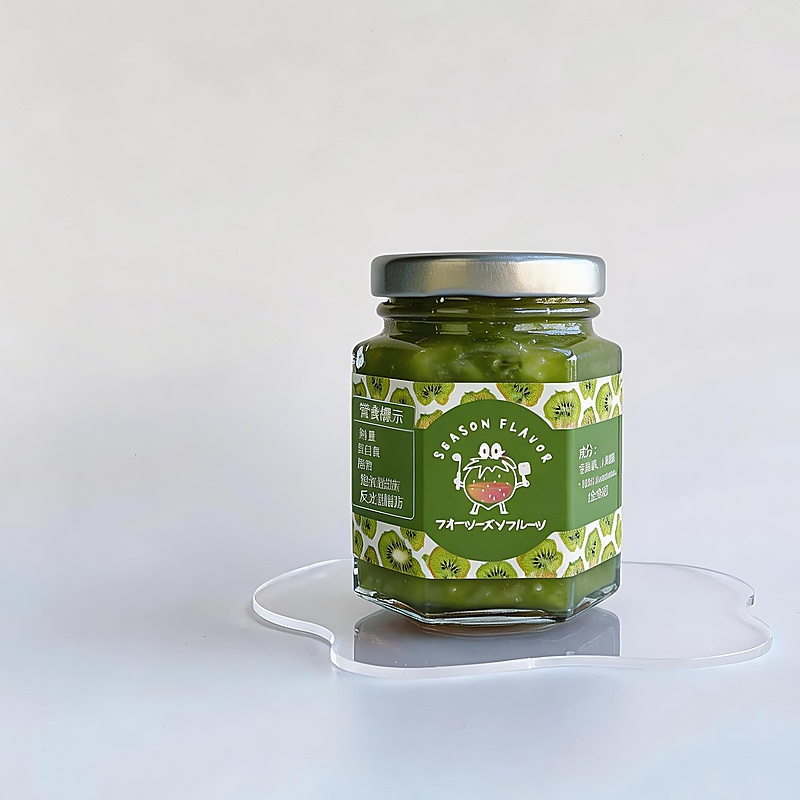
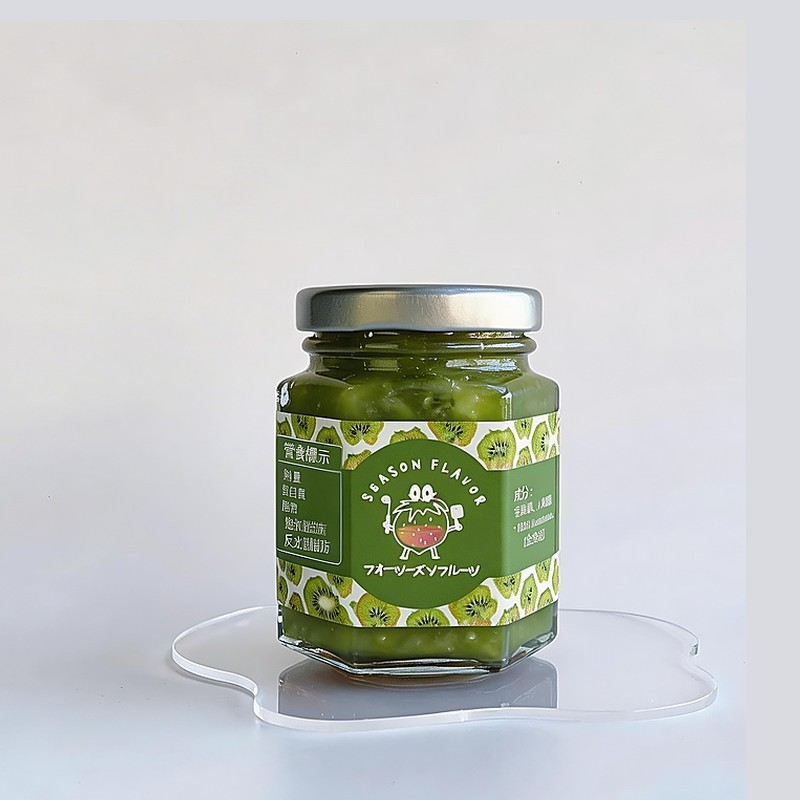
Fix product image alignment, shop pricing, restore FAQ, enhance SEO/GEO
Images:
- Normalize mixed-berry / kiwi / peach jar photos to match strawberry
  (uniform jar size, horizontal centering, shared baseline) on 800x800

Shop page:
- Shrink product images via 3-column grid (max-width 960px)
- Add missing card CSS (.shop-card-foot .price, .btn-sm, .page-head,
  .shop-card-tagline, .shop-card-body h3) so price renders correctly
- Add 2-column tablet breakpoint

Homepage:
- Restore FAQ section (6 Q&A) with original .faq styling

SEO / GEO:
- FAQPage JSON-LD matching the FAQ section
- Richer Organization / WebSite (SearchAction) / FoodEstablishment schema
  with @id graph, areaServed, payment/currency, geo meta tags
- keywords / author / robots / twitter / og:image:alt meta
- sitemap.xml with lastmod, changefreq, priority and product image entries

Claude-Session: https://claude.ai/code/session_01TEDooG5yoqRT5NXHpVNHy8

Changed region(s): [[0.0938, 0.3125, 0.7812, 0.9688]]

diff --git a/public/index.html b/public/index.html
@@ -14,40 +14,85 @@
   <meta property="og:image" content="https://www.seasonflavor.com/images/strawberry.jpg" />
   <meta property="og:locale" content="zh_TW" />
   <meta name="twitter:card" content="summary_large_image" />
+  <meta name="keywords" content="肆菓, Season Flavor, 手工果醬, 季節果醬, 草莓果醬, 綜合野莓果醬, 無添加果醬, 台北手工果醬, 當季水果果醬, 線上訂購果醬" />
+  <meta name="author" content="肆菓 Season Flavor" />
+  <meta name="robots" content="index, follow, max-image-preview:large" />
+  <meta property="og:image:alt" content="肆菓 Season Flavor 手工草莓果醬" />
+  <meta name="twitter:title" content="肆菓 Season Flavor｜把四季，做成剛剛好的甜" />
+  <meta name="twitter:description" content="用時令水果的真實風味製作手工果醬，線上訂購宅配到府。" />
+  <meta name="twitter:image" content="https://www.seasonflavor.com/images/strawberry.jpg" />
+  <meta name="geo.region" content="TW-TPE" />
+  <meta name="geo.placename" content="台北市" />
   <script type="application/ld+json">
   {
     "@context": "https://schema.org",
     "@type": "Organization",
+    "@id": "https://www.seasonflavor.com/#organization",
     "name": "肆菓 Season Flavor",
+    "alternateName": "肆菓",
     "url": "https://www.seasonflavor.com",
     "logo": "https://www.seasonflavor.com/images/strawberry.jpg",
+    "image": "https://www.seasonflavor.com/images/strawberry.jpg",
     "sameAs": ["https://www.instagram.com/seasonflavor_/"],
-    "description": "用時令水果的真實風味製作手工果醬與甜點"
+    "description": "肆菓 Season Flavor 用當令水果的真實風味，手工製作無添加防腐劑的季節果醬。",
+    "slogan": "把四季，做成剛剛好的甜"
   }
   </script>
   <script type="application/ld+json">
   {
     "@context": "https://schema.org",
     "@type": "WebSite",
+    "@id": "https://www.seasonflavor.com/#website",
     "name": "肆菓 Season Flavor",
-    "url": "https://www.seasonflavor.com"
+    "url": "https://www.seasonflavor.com",
+    "inLanguage": "zh-Hant",
+    "publisher": { "@id": "https://www.seasonflavor.com/#organization" },
+    "potentialAction": {
+      "@type": "SearchAction",
+      "target": "https://www.seasonflavor.com/shop?q={search_term_string}",
+      "query-input": "required name=search_term_string"
+    }
   }
   </script>
   <script type="application/ld+json">
   {
     "@context": "https://schema.org",
     "@type": "FoodEstablishment",
+    "@id": "https://www.seasonflavor.com/#business",
     "name": "肆菓 Season Flavor",
     "url": "https://www.seasonflavor.com",
+    "image": "https://www.seasonflavor.com/images/strawberry.jpg",
     "description": "手工果醬與季節甜點品牌，用時令水果的真實風味，讓每一口都是剛好的停頓。",
     "address": {
       "@type": "PostalAddress",
       "addressLocality": "台北市",
+      "addressRegion": "台北市",
       "addressCountry": "TW"
     },
-    "priceRange": "$",
-    "servesCuisine": "甜點、手工果醬",
+    "areaServed": { "@type": "Country", "name": "台灣" },
+    "priceRange": "$$",
+    "servesCuisine": ["手工果醬", "季節甜點"],
+    "currenciesAccepted": "TWD",
+    "paymentAccepted": "銀行轉帳, 貨到付款",
     "sameAs": ["https://www.instagram.com/seasonflavor_/"]
+  }
+  </script>
+  <script type="application/ld+json">
+  {
+    "@context": "https://schema.org",
+    "@type": "FAQPage",
+    "mainEntity": [
+      { "@type": "Question", "name": "果醬的保存期限多久？要怎麼保存？",
+        "acceptedAnswer": { "@type": "Answer", "text": "因為堅持不添加防腐劑，未開封請冷藏保存，賞味期約 1 個月；開封後請冷藏並於 2 週內食用完畢，每次取用請使用乾燥潔淨的湯匙，避免沾染水氣。" } },
+      { "@type": "Question", "name": "怎麼下單？有哪些付款方式？",
+        "acceptedAnswer": { "@type": "Answer", "text": "直接在線上訂購頁面選購加入購物車即可結帳。目前提供銀行轉帳（ATM／網銀）與貨到付款，皆為先付款後出貨。" } },
+      { "@type": "Question", "name": "運費怎麼算？多少免運？",
+        "acceptedAnswer": { "@type": "Answer", "text": "宅配運費 NT$120，單筆訂單滿 NT$1,500 免運。台北地區也可選擇面交自取，自取免運費。" } },
+      { "@type": "Question", "name": "大概多久會出貨？",
+        "acceptedAnswer": { "@type": "Answer", "text": "確認收到款項後，我們會在 2–3 個工作天內手工製作並出貨。因為都是小批量現做，遇到旺季可能稍有延後。" } },
+      { "@type": "Question", "name": "「即將推出」的口味什麼時候會有？",
+        "acceptedAnswer": { "@type": "Answer", "text": "奇異果、水蜜桃等口味會跟著當令水果的產季推出，數量有限。想收到上架通知，歡迎追蹤 IG @seasonflavor_。" } }
+    ]
   }
   </script>
   <link rel="preconnect" href="https://fonts.googleapis.com" />
@@ -272,6 +317,55 @@
           而不只是為了記錄它。
         </p>
         <a href="#contact" class="btn btn-light">和我們說說話</a>
+      </div>
+    </div>
+  </section>
+
+  <!-- FAQ -->
+  <section class="faq section" id="faq">
+    <div class="container">
+      <div class="faq-header">
+        <p class="section-label">FAQ</p>
+        <h2 class="section-title">常見問題</h2>
+        <p class="body-text center">關於訂購、配送與保存，這裡有你想知道的</p>
+      </div>
+      <div class="faq-list">
+        <details class="faq-item">
+          <summary class="faq-question">果醬的保存期限多久？要怎麼保存？</summary>
+          <div class="faq-answer">
+            <p>因為堅持<strong>不添加防腐劑</strong>，未開封請冷藏保存，賞味期約 1 個月；開封後請冷藏並於 2 週內食用完畢，每次取用請使用乾燥潔淨的湯匙，避免沾染水氣。</p>
+          </div>
+        </details>
+        <details class="faq-item">
+          <summary class="faq-question">怎麼下單？有哪些付款方式？</summary>
+          <div class="faq-answer">
+            <p>直接在<a href="/shop">線上訂購</a>頁面選購加入購物車即可結帳。目前提供<strong>銀行轉帳（ATM／網銀）</strong>與<strong>貨到付款</strong>，皆為先付款後出貨；轉帳後系統會引導你回報帳號末五碼，方便我們快速核帳。</p>
+          </div>
+        </details>
+        <details class="faq-item">
+          <summary class="faq-question">運費怎麼算？多少免運？</summary>
+          <div class="faq-answer">
+            <p>宅配運費 NT$120，單筆訂單滿 <strong>NT$1,500 免運</strong>。台北地區也可選擇面交自取（請私訊 IG 約定時間地點），自取免運費。</p>
+          </div>
+        </details>
+        <details class="faq-item">
+          <summary class="faq-question">大概多久會出貨？</summary>
+          <div class="faq-answer">
+            <p>確認收到款項後，我們會在 <strong>2–3 個工作天</strong>內手工製作並出貨。因為都是小批量現做，遇到旺季可能稍有延後，會再個別通知你。</p>
+          </div>
+        </details>
+        <details class="faq-item">
+          <summary class="faq-question">「即將推出」的口味什麼時候會有？</summary>
+          <div class="faq-answer">
+            <p>奇異果、水蜜桃等口味會跟著<strong>當令水果的產季</strong>推出，數量有限。想第一時間收到上架通知，歡迎追蹤我們的 IG <a href="https://www.instagram.com/seasonflavor_/" target="_blank" rel="noopener">@seasonflavor_</a>。</p>
+          </div>
+        </details>
+        <details class="faq-item">
+          <summary class="faq-question">可以宅配送禮或開立發票嗎？</summary>
+          <div class="faq-answer">
+            <p>可以！結帳備註欄填寫收件人資訊即可直接寄送，需要簡單包裝或附小卡也歡迎留言告訴我們。需要發票或大量訂購，請透過 IG 私訊聯絡。</p>
+          </div>
+        </details>
       </div>
     </div>
   </section>

diff --git a/src/seo.js b/src/seo.js
@@ -17,13 +17,26 @@ function siteUrl() {
 
 function sitemap(req, res) {
   const base = siteUrl();
-  const staticPages = ['', '/shop', '/login', '/register', '/order-lookup'];
-  const products = db.prepare('SELECT slug, created_at FROM products WHERE active = 1').all();
+  const today = new Date().toISOString().slice(0, 10);
+  const staticPages = [
+    { loc: '', priority: '1.0', freq: 'weekly' },
+    { loc: '/shop', priority: '0.9', freq: 'daily' },
+    { loc: '/order-lookup', priority: '0.4', freq: 'monthly' },
+    { loc: '/login', priority: '0.3', freq: 'yearly' },
+    { loc: '/register', priority: '0.3', freq: 'yearly' },
+  ];
+  const products = db.prepare('SELECT slug, image, created_at FROM products WHERE active = 1').all();
   const urls = [
-    ...staticPages.map((p) => `  <url><loc>${base}${p}</loc></url>`),
-    ...products.map((p) => `  <url><loc>${base}/products/${escapeHtml(p.slug)}</loc></url>`),
+    ...staticPages.map(
+      (p) =>
+        `  <url><loc>${base}${p.loc}</loc><lastmod>${today}</lastmod><changefreq>${p.freq}</changefreq><priority>${p.priority}</priority></url>`
+    ),
+    ...products.map((p) => {
+      const img = p.image ? `\n    <image:image><image:loc>${base}${escapeHtml(p.image)}</image:loc></image:image>` : '';
+      return `  <url><loc>${base}/products/${escapeHtml(p.slug)}</loc><lastmod>${today}</lastmod><changefreq>weekly</changefreq><priority>0.8</priority>${img}</url>`;
+    }),
   ].join('\n');
-  const xml = `<?xml version="1.0" encoding="UTF-8"?>\n<urlset xmlns="http://www.sitemaps.org/schemas/sitemap/0.9">\n${urls}\n</urlset>\n`;
+  const xml = `<?xml version="1.0" encoding="UTF-8"?>\n<urlset xmlns="http://www.sitemaps.org/schemas/sitemap/0.9" xmlns:image="http://www.google.com/schemas/sitemap-image/1.1">\n${urls}\n</urlset>\n`;
   res.writeHead(200, { 'Content-Type': 'application/xml; charset=utf-8' });
   res.end(xml);
 }
@@ -77,7 +90,7 @@ function productPage(req, res, slug) {
     '@type': 'BreadcrumbList',
     itemListElement: [
       { '@type': 'ListItem', position: 1, name: '首頁', item: base },
-      { '@type': 'ListItem', position: 2, name: '甜點系列', item: `${base}/shop` },
+      { '@type': 'ListItem', position: 2, name: '線上訂購', item: `${base}/shop` },
       { '@type': 'ListItem', position: 3, name: p.name, item: url },
     ],
   };

diff --git a/public/css/style.css b/public/css/style.css
@@ -984,9 +984,12 @@ ul { list-style: none; }
 
 .shop-grid {
   display: grid;
-  grid-template-columns: repeat(2, 1fr);
-  gap: 2rem;
+  grid-template-columns: repeat(3, 1fr);
+  gap: 1.75rem;
   margin-bottom: 3rem;
+  max-width: 960px;
+  margin-left: auto;
+  margin-right: auto;
 }
 .shop-card {
   background: var(--white);
@@ -1009,7 +1012,54 @@ ul { list-style: none; }
   transition: transform 0.5s var(--ease);
 }
 .shop-card:hover .shop-card-img img { transform: scale(1.04); }
-.shop-card-body { padding: 1.5rem; }
+.shop-card-body {
+  padding: 1.25rem 1.4rem 1.5rem;
+  display: flex;
+  flex-direction: column;
+  gap: 0.4rem;
+}
+.shop-card-body h3 {
+  font-family: var(--font-serif);
+  font-size: 1.15rem;
+  font-weight: 400;
+  color: var(--brown);
+  margin: 0.15rem 0 0.1rem;
+}
+.shop-card-body h3 a { color: inherit; }
+.shop-card-tagline {
+  font-size: 0.82rem;
+  color: var(--text-light);
+  line-height: 1.65;
+  margin-bottom: 0.6rem;
+  min-height: 2.6em;
+}
+.shop-card-foot {
+  display: flex;
+  align-items: center;
+  justify-content: space-between;
+  gap: 0.75rem;
+  margin-top: auto;
+}
+.shop-card-foot .price {
+  font-family: var(--font-serif);
+  font-size: 1.4rem;
+  color: var(--orange);
+  font-weight: 400;
+  white-space: nowrap;
+}
+.btn-sm {
+  padding: 0.55rem 1.1rem;
+  font-size: 0.8rem;
+  border-radius: 100px;
+}
+.shop-card .pf-badge {
+  align-self: flex-start;
+}
+.page-head {
+  text-align: center;
+  padding: calc(var(--nav-h) + 3.5rem) 0 2.5rem;
+}
+.page-head .section-title { margin-bottom: 0.75rem; }
 .shop-card-name {
   font-family: var(--font-serif);
   font-size: 1.25rem; font-weight: 400;
@@ -1264,8 +1314,11 @@ ul { list-style: none; }
 .co-bank-info a { color: var(--orange); }
 
 /* Responsive */
+@media (max-width: 900px) {
+  .shop-grid { grid-template-columns: repeat(2, 1fr); max-width: 620px; }
+}
 @media (max-width: 768px) {
-  .shop-grid { grid-template-columns: 1fr; }
+  .shop-grid { grid-template-columns: repeat(2, 1fr); }
   .shop-coming-row { flex-direction: column; gap: 1.25rem; }
   .shop-coming-cards { gap: 1rem; }
   .co-form-row { grid-template-columns: 1fr; }
